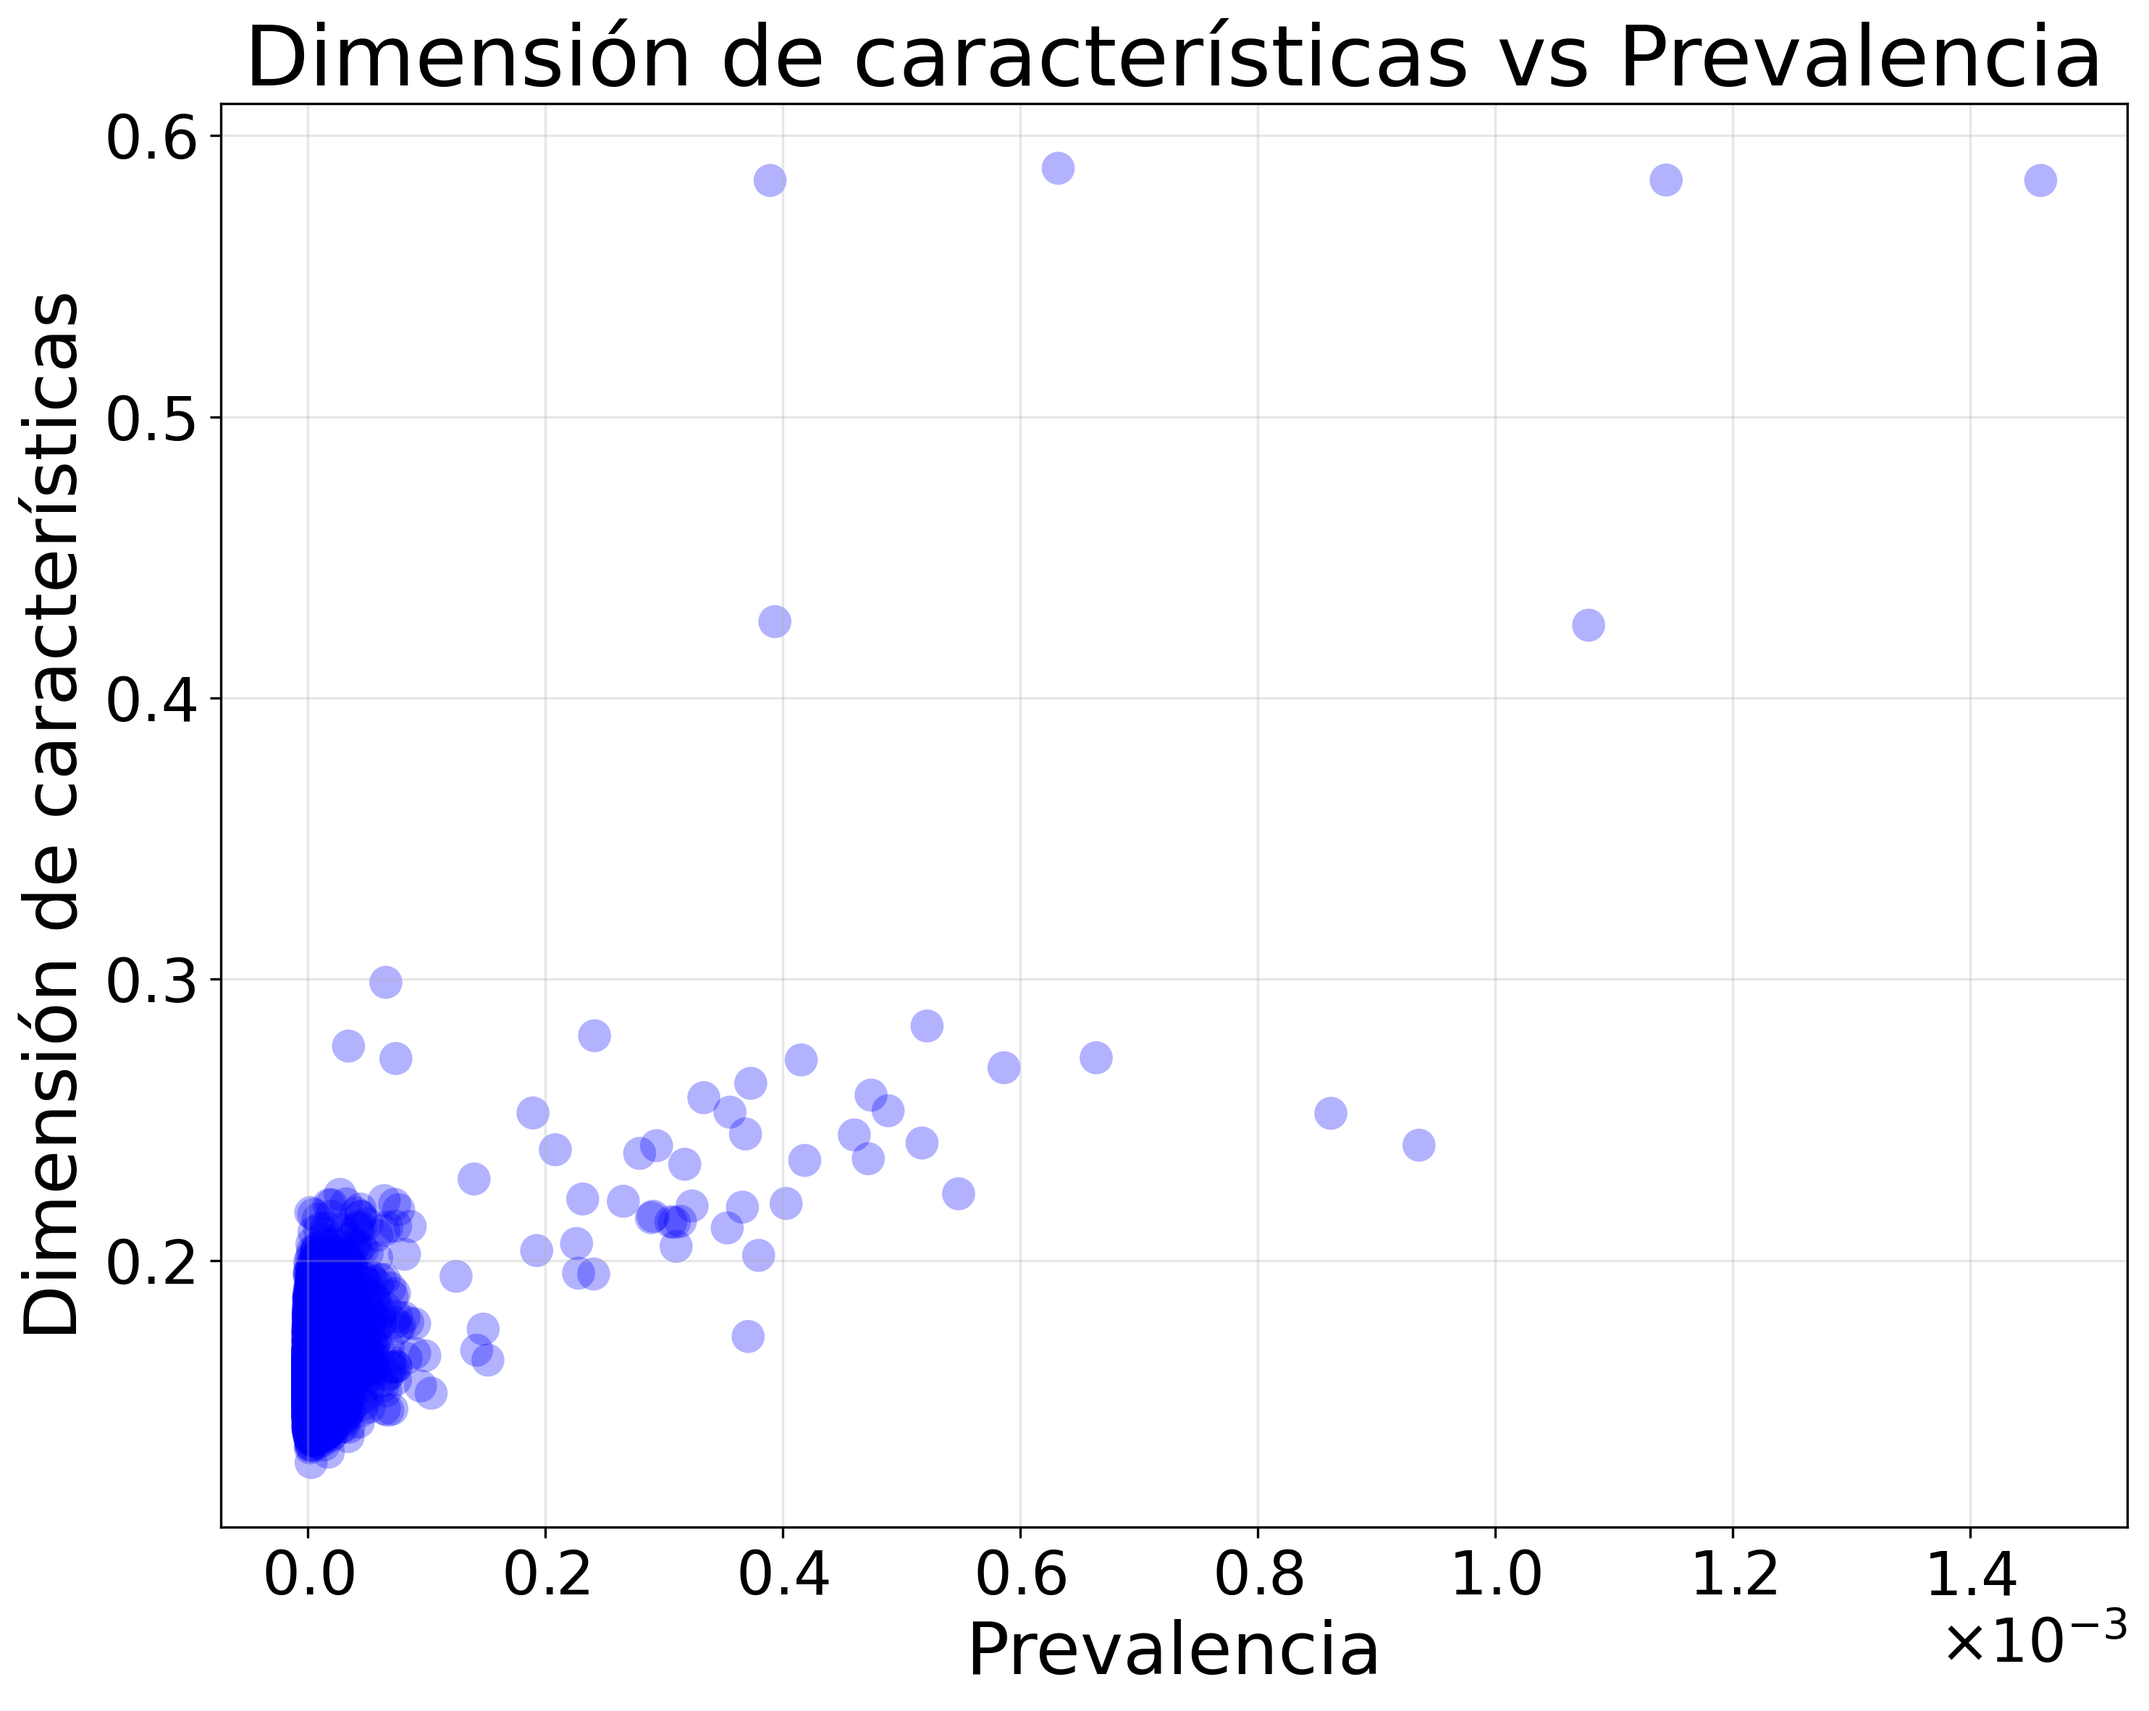
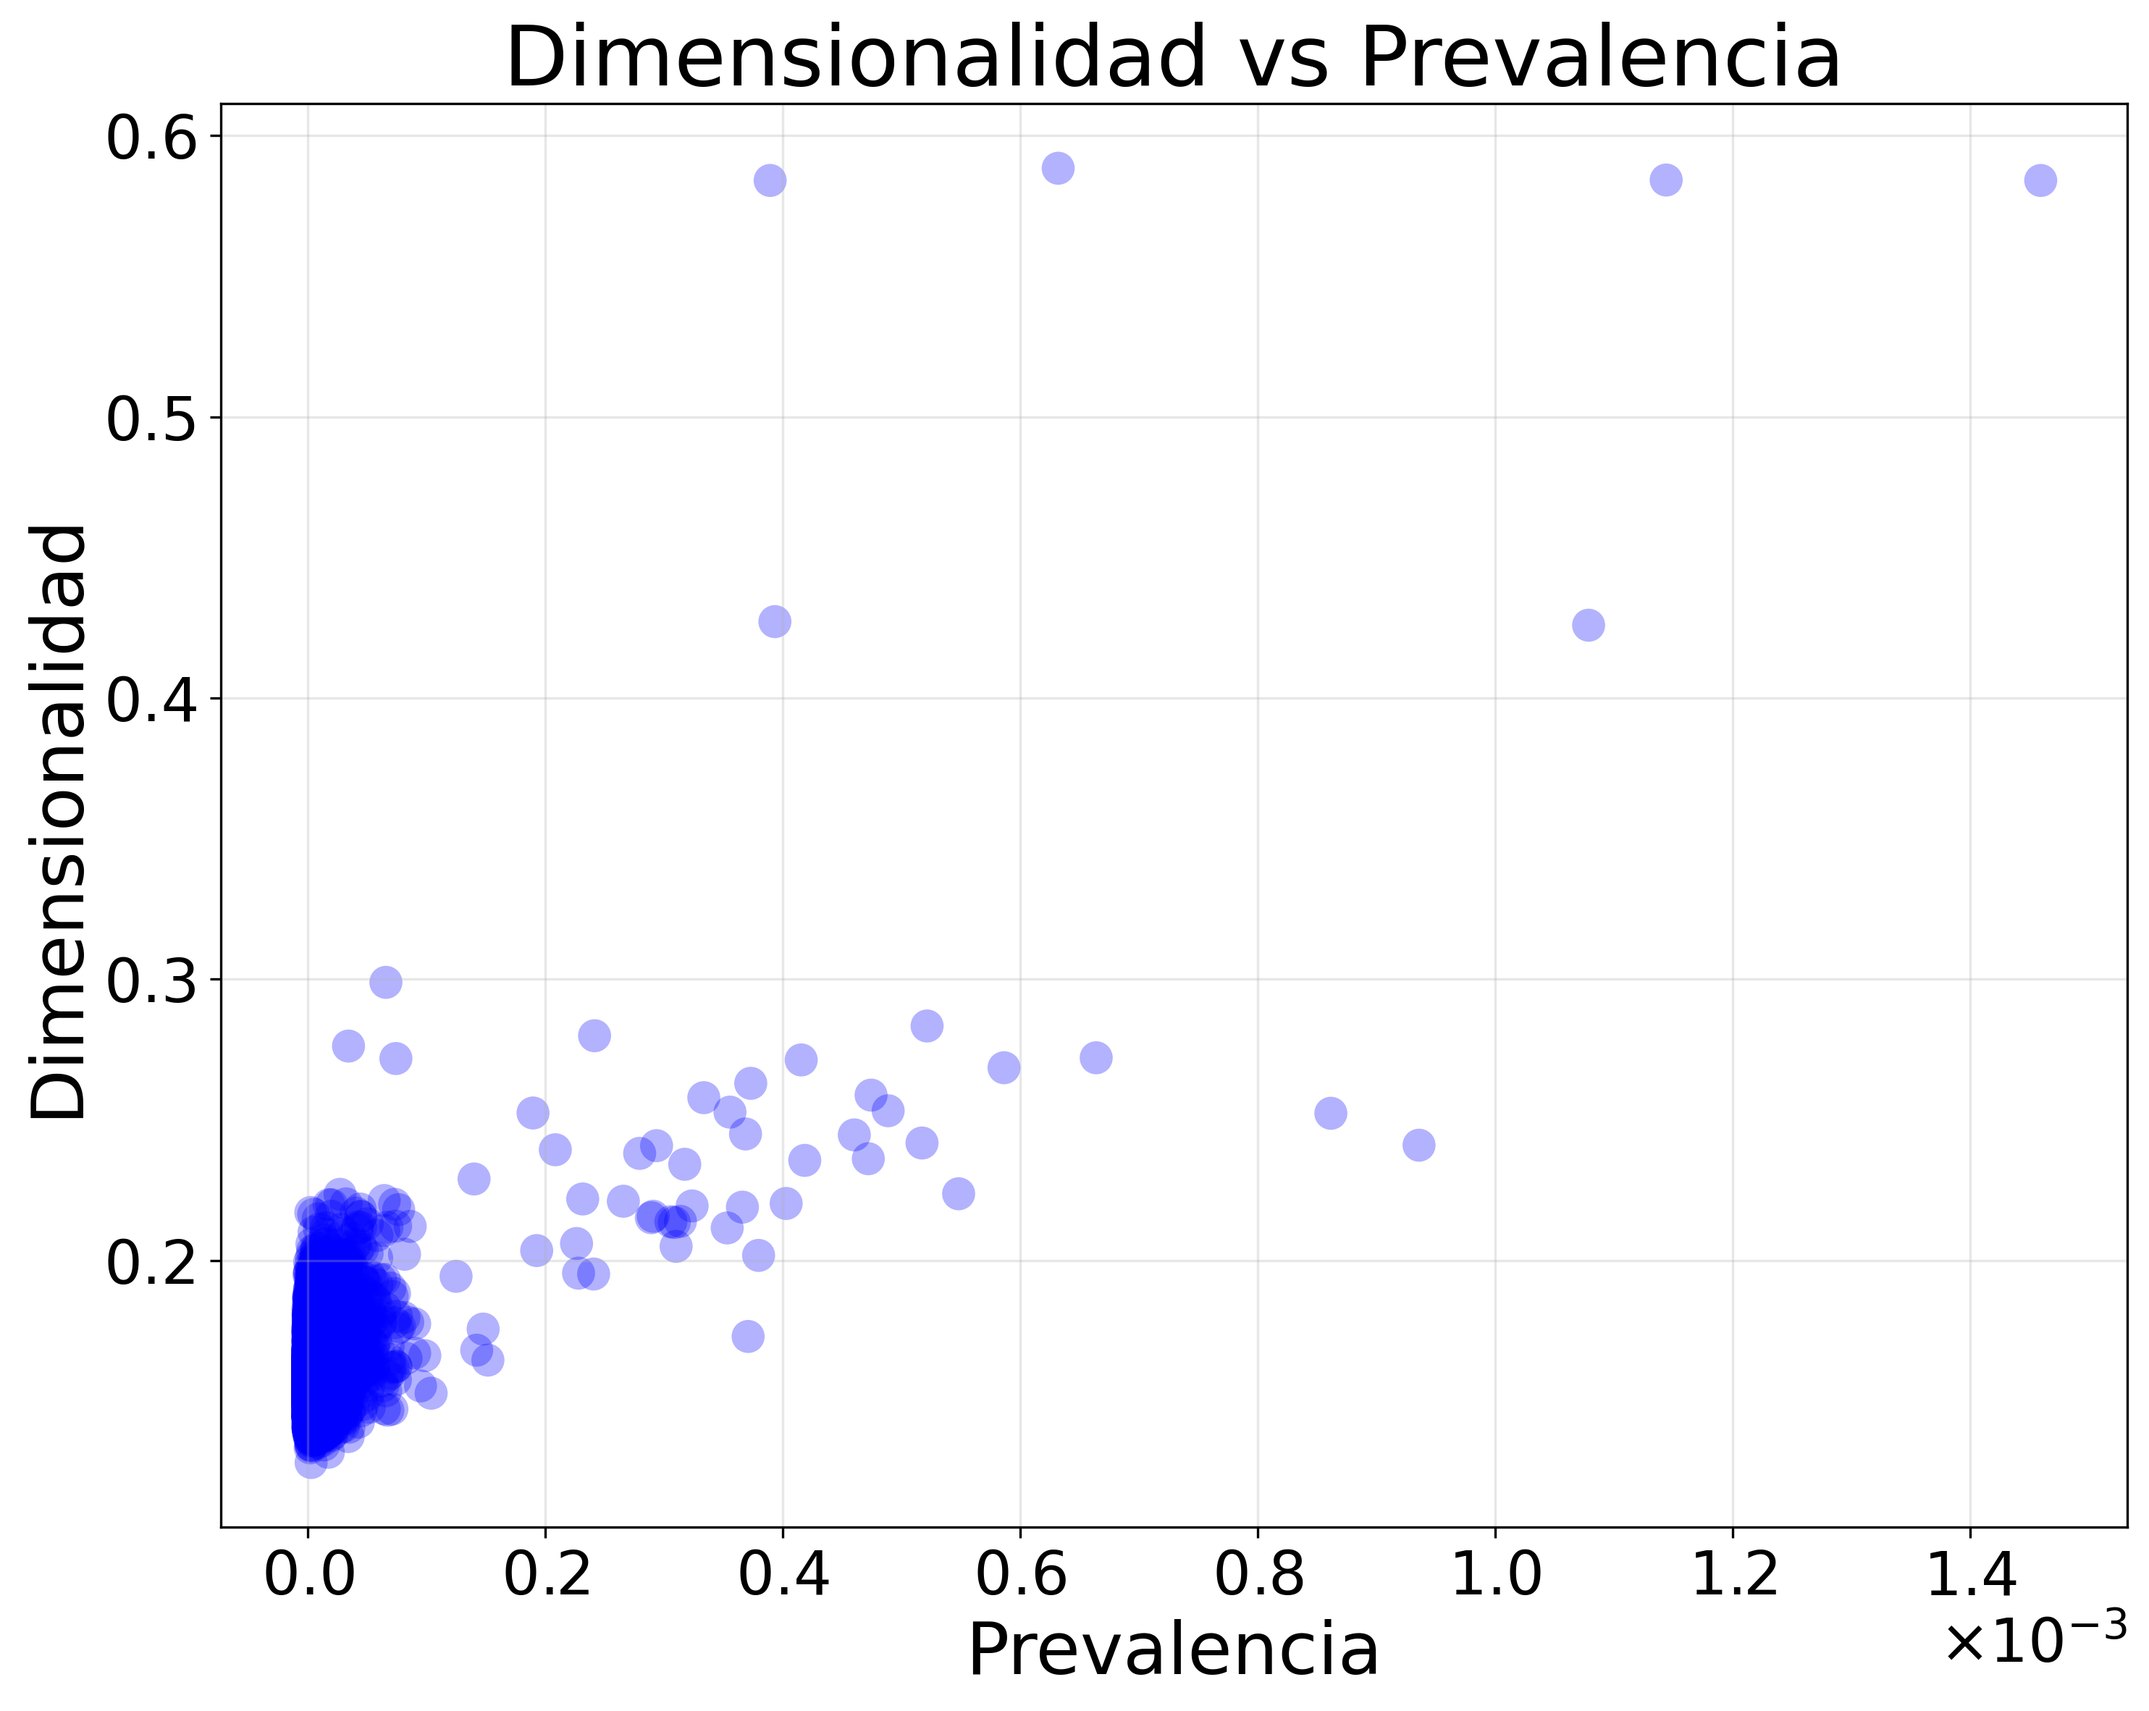
fix dimentionality definition

Changed region(s): [[0.124, 0.0, 0.9919, 0.0618], [0.0, 0.1854, 0.062, 0.8032]]

diff --git a/src/generate_scatter.py b/src/generate_scatter.py
@@ -14,8 +14,8 @@ plt.scatter(fractions, dimensions, alpha=0.3, s=120, c='blue', edgecolors='none'
 
 # Labels and formatting
 plt.xlabel('Prevalencia', fontsize=24)
-plt.ylabel('Dimensión de características', fontsize=24)
-plt.title('Dimensión de características vs Prevalencia', fontsize=28)
+plt.ylabel('Dimensionalidad', fontsize=24)
+plt.title('Dimensionalidad vs Prevalencia', fontsize=28)
 
 # Make tick labels bigger
 plt.xticks(fontsize=20)
